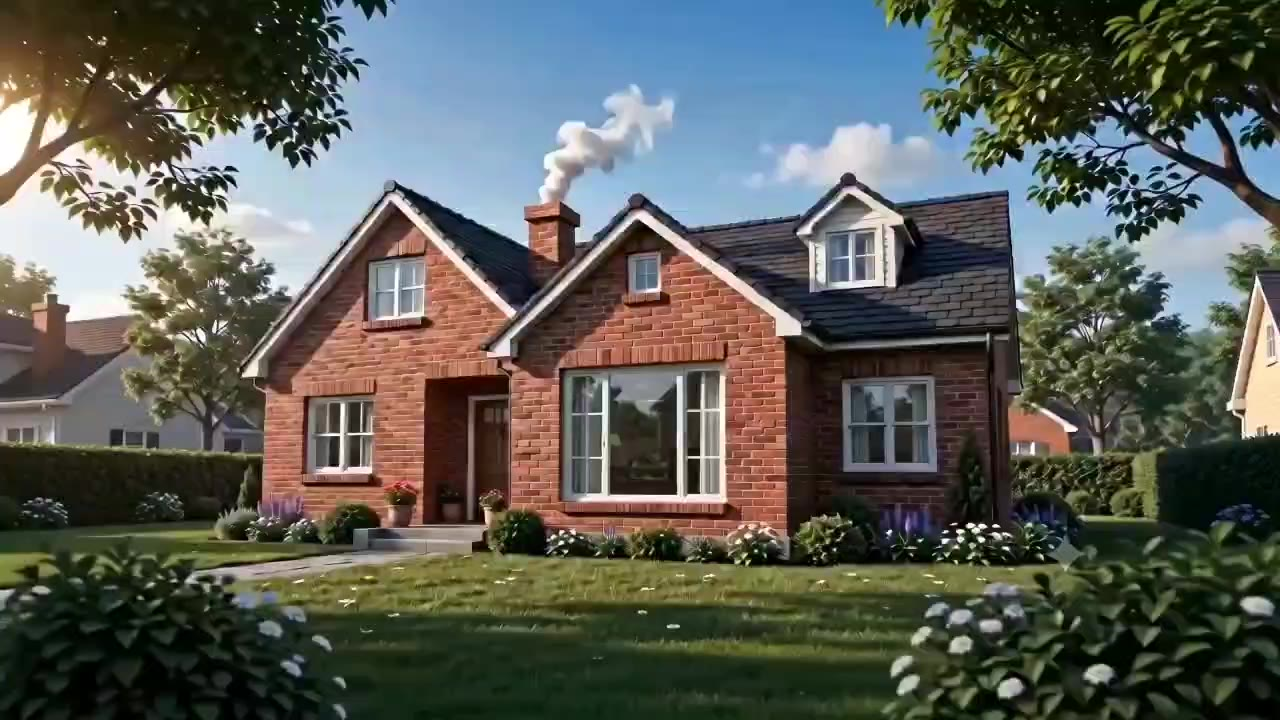
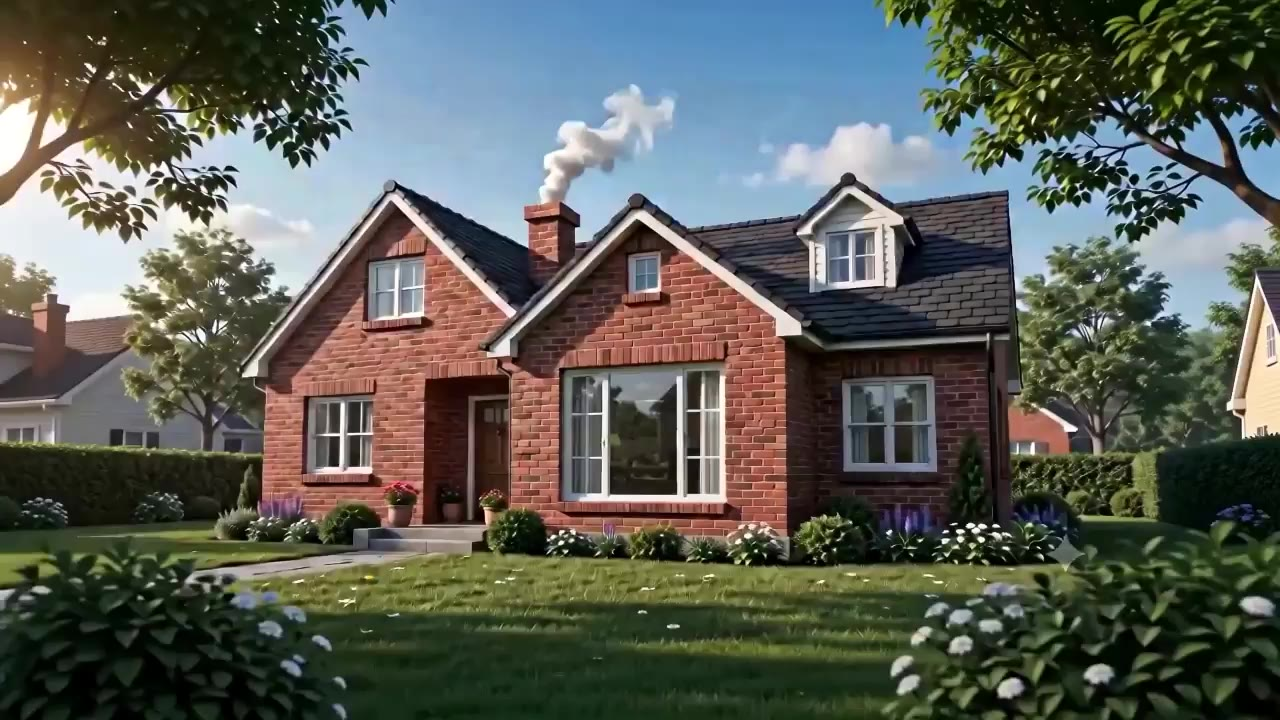
Update homepage hero to higher-bitrate video encode

diff --git a/index.html b/index.html
@@ -81,9 +81,9 @@
 <!-- Hero -->
 <section class="hero" id="hero">
   <div class="hero-bg">
-    <video class="hero-bg-video" autoplay muted loop playsinline preload="auto" poster="img/hero-poster.jpg?v=20260714-5" aria-hidden="true" tabindex="-1">
-      <source src="img/hero-video.mp4?v=20260714-5" type="video/mp4">
-      <img src="img/hero-poster.jpg?v=20260714-5" alt="" class="hero-bg-img">
+    <video class="hero-bg-video" autoplay muted loop playsinline preload="auto" poster="img/hero-poster.jpg?v=20260714-6" aria-hidden="true" tabindex="-1">
+      <source src="img/hero-video.mp4?v=20260714-6" type="video/mp4">
+      <img src="img/hero-poster.jpg?v=20260714-6" alt="" class="hero-bg-img">
     </video>
     <div class="hero-overlay"></div>
   </div>